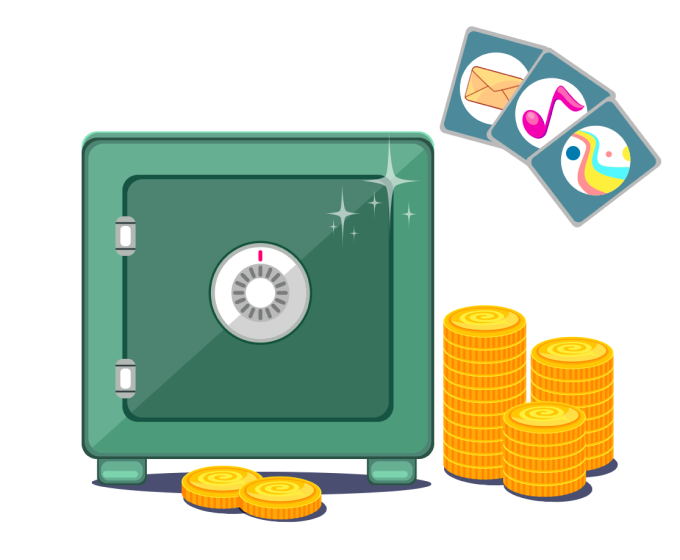
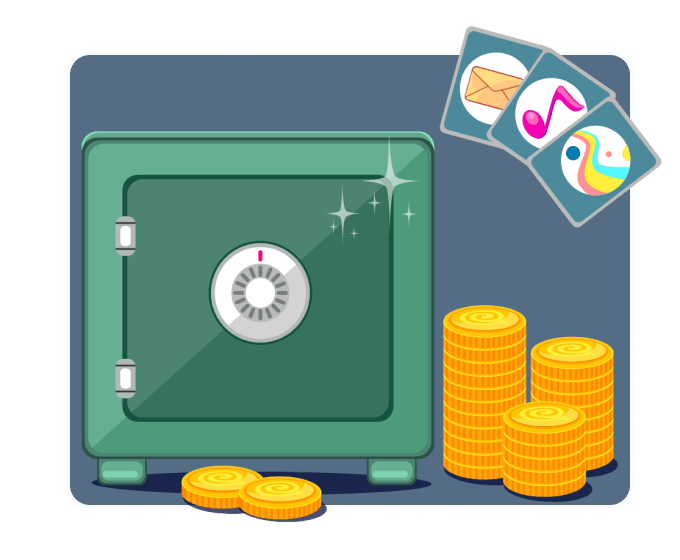
Features FINISH desc

Changed region(s): [[0.0926, 0.0911, 0.9265, 0.9107], [0.8338, 0.0911, 0.9265, 0.2125]]

diff --git a/funtome_features.html b/funtome_features.html
@@ -114,8 +114,7 @@
 
                 <!--- Text Left -->
                 <div class="features-iteam">
-                    <div class="features-photo mr50">
-                        <img class="container-fon" src="img/funtome-features/fon.png" alt="">
+                    <div class="features-photo">
                         <img class="container-img-left" src="img/funtome-features/001.png" alt="">
                     </div>
                     <div class="features-content">
@@ -137,7 +136,7 @@
 
                 <!--- Text Richt -->
                 <div class="features-iteam">
-                    <div class="features-content mr50">
+                    <div class="features-content">
                         <div class="features-title">
                             <div class="number-photo">
                                 <img class="number" src="img/funtome-features/02.png" alt="">
@@ -151,15 +150,13 @@
                         </div>
                     </div>
                     <div class="features-photo">
-                        <img class="container-fon" src="img/funtome-features/fon.png" alt="">
                         <img class="container-img-right" src="img/funtome-features/002.png" alt="">
                     </div>
                 </div>
 
                 <!--- Text Left -->
                 <div class="features-iteam">
-                    <div class="features-photo mr50">
-                        <img class="container-fon" src="img/funtome-features/fon.png" alt="">
+                    <div class="features-photo">
                         <img class="container-img-left" src="img/funtome-features/003.png" alt="">
                     </div>
                     <div class="features-content">
@@ -180,7 +177,7 @@
 
                 <!--- Text Richt -->
                 <div class="features-iteam">
-                    <div class="features-content mr50">
+                    <div class="features-content">
                         <div class="features-title">
                             <div class="number-photo">
                                 <img class="number" src="img/funtome-features/04.png" alt="">
@@ -201,15 +198,13 @@
                         </div>
                     </div>
                     <div class="features-photo">
-                        <img class="container-fon" src="img/funtome-features/fon.png" alt="">
                         <img class="container-img-right" src="img/funtome-features/004.png" alt="">
                     </div>
                 </div>
 
                 <!--- Text Left -->
                 <div class="features-iteam">
-                    <div class="features-photo mr50">
-                        <img class="container-fon" src="img/funtome-features/fon.png" alt="">
+                    <div class="features-photo">
                         <img class="container-img-left" src="img/funtome-features/005.png" alt="">
                     </div>
                     <div class="features-content">
@@ -231,7 +226,7 @@
 
                 <!--- Text Richt -->
                 <div class="features-iteam">
-                    <div class="features-content mr50">
+                    <div class="features-content">
                         <div class="features-title">
                             <div class="number-photo">
                                 <img class="number" src="img/funtome-features/06.png" alt="">
@@ -246,15 +241,13 @@
                         </div>
                     </div>
                     <div class="features-photo">
-                        <img class="container-fon" src="img/funtome-features/fon.png" alt="">
                         <img class="container-img-right" src="img/funtome-features/006.png" alt="">
                     </div>
                 </div>
 
                 <!--- Text Left -->
                 <div class="features-iteam">
-                    <div class="features-photo mr50">
-                        <img class="container-fon" src="img/funtome-features/fon.png" alt="">
+                    <div class="features-photo">
                         <img class="container-img-left" src="img/funtome-features/007.png" alt="">
                     </div>
                     <div class="features-content">
@@ -277,7 +270,7 @@
 
                 <!--- Text Richt -->
                 <div class="features-iteam">
-                    <div class="features-content mr50">
+                    <div class="features-content">
                         <div class="features-title">
                             <div class="number-photo">
                                 <img class="number" src="img/funtome-features/08.png" alt="">
@@ -291,7 +284,6 @@
                         </div>
                     </div>
                     <div class="features-photo">
-                        <img class="container-fon" src="img/funtome-features/fon.png" alt="">
                         <img class="container-img-right" src="img/funtome-features/008.png" alt="">
                     </div>
                 </div>

diff --git a/css/style-funtome-features.css b/css/style-funtome-features.css
@@ -23,34 +23,38 @@
 /*********Features*******/
 
 .features-group {
-    margin: 167px 0 200px;
+    margin: 167px 0 0;
 }
 
 .features-iteam {
     display: flex;
     position: relative;
-    margin-bottom: 120px;
+   /*  margin-bottom: 120px; */
 }
 
 .features-photo {
-    width: 47%;
+    width: 680px;
+    height: 560px;
 }
 
-.container-fon {
+/* .container-fon {
     width: 560px;
-    height: 450px;  
-}
+    height: 450px;
+    background: #556D84;
+    box-shadow: 0px 0px 10px rgba(0, 39, 179, 0.08);
+    border-radius: 20px;  
+} */
 
 .container-img-left {
     position: absolute;
-    left: -61px;
-    top: -81px;
+    left: -71px;
+    top: -75px;
 }
 
 .container-img-right {
     position: absolute;
-    right: -44px;
-    top: -108px;
+    right: -66px;
+    top: -102px;
 }
 
 .features-content {
